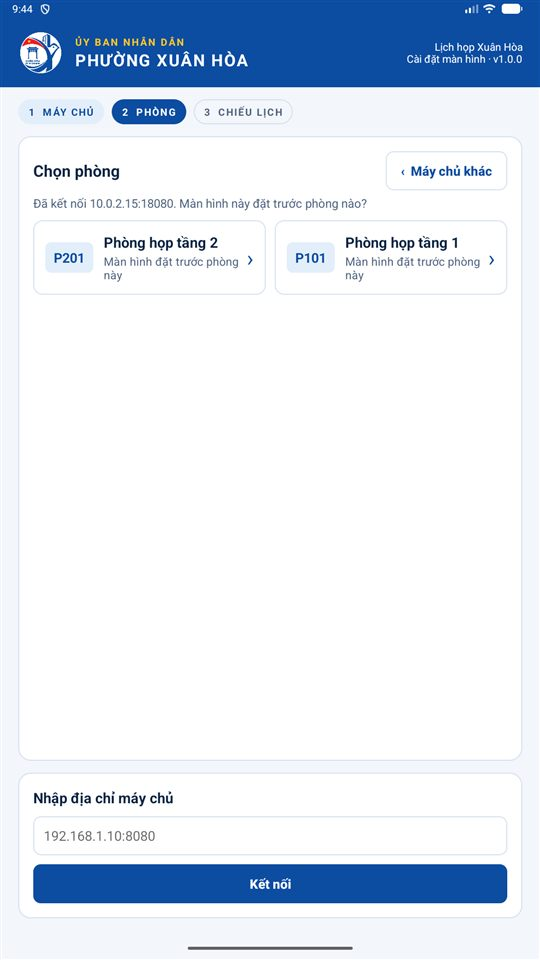
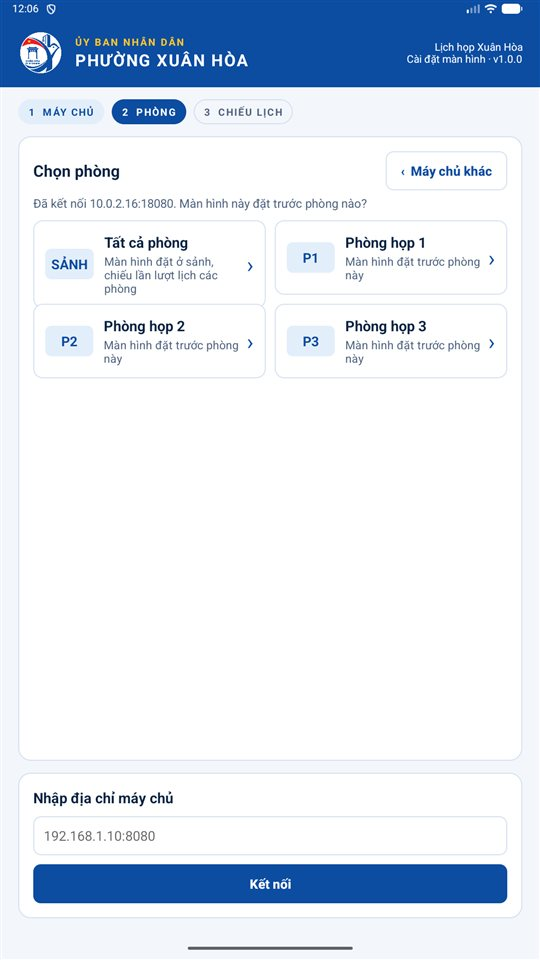
Demo: phong P101 luon o luc vua hop xong, anh app man hinh sanh va chon phong co SANH

diff --git a/demo/index.html b/demo/index.html
@@ -74,7 +74,7 @@ figcaption strong { color: var(--fg); }
       <label id="roomPick">Phòng
         <select id="room">
           <option value="P201">P201 – Phòng họp tầng 2 (mẫu Chính thức)</option>
-          <option value="P101">P101 – Phòng họp tầng 1 (mẫu Hiện đại)</option>
+          <option value="P101">P101 – Phòng họp tầng 1 (mẫu Hiện đại, vừa họp xong)</option>
           <option value="PTD">PTD – Phòng tiếp dân (mẫu Trang trọng, tên dài)</option>
         </select>
       </label>
@@ -97,14 +97,16 @@ figcaption strong { color: var(--fg); }
     </div>
     <h2>Standee dọc (1080×1920)</h2>
     <div class="shots tall">
-      <figure><img src="screens/app-chon-phong.jpg" alt="Bước chọn phòng" width="540" height="960" loading="lazy"><figcaption><strong>② Chọn phòng</strong> – thẻ lớn, chọn bằng tay hoặc remote.</figcaption></figure>
+      <figure><img src="screens/app-chon-phong.jpg" alt="Bước chọn phòng" width="540" height="960" loading="lazy"><figcaption><strong>② Chọn phòng</strong> – thẻ lớn, chọn bằng tay hoặc remote; “Tất cả phòng” cho màn hình đặt ở sảnh.</figcaption></figure>
+      <figure><img src="screens/app-sanh.jpg" alt="Màn hình sảnh chiếu lần lượt lịch các phòng" width="540" height="960" loading="lazy"><figcaption><strong>Màn hình sảnh</strong> – chiếu lần lượt từng phòng còn lịch hôm nay.</figcaption></figure>
       <figure><img src="screens/app-man-cho.jpg" alt="Màn chờ có logo phường" width="540" height="960" loading="lazy"><figcaption><strong>Màn chờ</strong> – hiện trong lúc tải lịch.</figcaption></figure>
       <figure><img src="screens/app-chieu-doc.jpg" alt="Màn hình chiếu lịch họp dọc" width="540" height="960" loading="lazy"><figcaption><strong>Chiếu lịch</strong> – bố cục dọc tự đổi theo màn hình.</figcaption></figure>
     </div>
   </section>
 
   <ul class="notes">
-    <li>Màn hình ngang/dọc là đúng trang màn hình chạy trên standee (app Android hoặc Fully Kiosk); trang quản trị là đúng trang mở ở <code>http://&lt;IP máy chủ&gt;:8081/</code>, gồm 5 tab: Lịch họp, Nhập Excel, Phòng &amp; màn hình, Giao diện, Hệ thống.</li>
+    <li>Màn hình ngang/dọc là đúng trang màn hình chạy trên standee (app Android hoặc Fully Kiosk); trang quản trị là đúng trang mở ở <code>http://&lt;IP máy chủ&gt;:&lt;cổng quản trị&gt;/</code>, gồm 5 tab: Lịch họp, Nhập Excel, Phòng &amp; màn hình, Giao diện, Hệ thống.</li>
+    <li>Phòng P101 luôn ở lúc vừa họp xong: thẻ lớn xoay giữa “ĐÃ KẾT THÚC” và cuộc họp tiếp theo mỗi 10 giây. Màn hình sảnh chiếu lần lượt các phòng còn lịch hôm nay.</li>
     <li>Trạng thái “đang chạy / mất kết nối” ở tab Phòng &amp; màn hình trong bản mẫu là dữ liệu giả.</li>
     <li>Bản mẫu không đọc được file Excel và không tải file về; trên máy chủ thật các nút đó hoạt động bình thường.</li>
     <li>Dữ liệu mẫu chỉ lưu trong trình duyệt của bạn và tự tạo lại mỗi ngày theo giờ hiện tại.</li>
@@ -139,7 +141,7 @@ figcaption strong { color: var(--fg); }
   room.addEventListener('change', function () { show(view, true); });
   document.getElementById('reload').addEventListener('click', function () { show(view, true); });
   document.getElementById('reset').addEventListener('click', function () {
-    try { localStorage.removeItem('ledConference.demo.v2'); } catch (e) { /* in-memory data resets on reload */ }
+    try { localStorage.removeItem('ledConference.demo.v3'); } catch (e) { /* in-memory data resets on reload */ }
     show(view, true);
   });
 

diff --git a/demo/mock.js b/demo/mock.js
@@ -5,7 +5,7 @@
 (function () {
   'use strict';
 
-  var KEY = 'ledConference.demo.v2'; // bumped when the sample data shape changes
+  var KEY = 'ledConference.demo.v3'; // bumped when the sample data shape changes
   var DEFAULT_DISPLAY = {
     theme: 'official', orientation: 'auto', effect: 'fadeUp', clock: true, footer: true,
     reduceMotion: false, hideCursor: true, footerNote: '', emptyDay: 'nextMeeting', skyline: 'normal',
@@ -64,7 +64,10 @@
     add(today, s0 + 150, s0 + 210, 'Họp triển khai kế hoạch chuyển đổi số', 'Phó Chủ tịch UBND phường', 'Phòng họp số 2',
       { source: 'manual', importId: null, contact: 'Đ/c Minh – phòng Văn hóa – Xã hội', showContact: true });
     add(today, s0 + 240, s0 + 300, 'Họp chuẩn bị hội nghị cuối năm', 'Chánh Văn phòng', 'Phòng họp tầng 2', { status: 'postponed' });
-    add(today, s0 + 60, s0 + 120, 'Rà soát hồ sơ đất đai tồn đọng', 'Trưởng phòng Kinh tế', 'PH tầng 1', { endEstimated: true });
+    // P101 always shows the minutes after a meeting: one ended a minute ago, the next starts soon (see relative()).
+    add(today, 0, 0, 'Rà soát hồ sơ đất đai tồn đọng', 'Trưởng phòng Kinh tế', 'PH tầng 1', { rel: [-61, -1] });
+    add(today, 0, 0, 'Họp giải quyết đơn thư kiến nghị của công dân', 'Phó Chủ tịch UBND phường', 'PH tầng 1',
+      { rel: [25, 85], note: 'Mời đại diện khu phố 3 cùng dự', contact: 'Đ/c Hùng – Thanh tra phường', showContact: true });
     add(today, s0, s0 + 120,
       'Hội nghị sơ kết công tác 9 tháng đầu năm và triển khai phương hướng, nhiệm vụ trọng tâm 3 tháng cuối năm của Ủy ban nhân dân phường Xuân Hòa',
       'Chủ tịch Ủy ban nhân dân phường', 'Phòng tiếp công dân',
@@ -107,7 +110,15 @@
     var st = memory;
     try { st = JSON.parse(localStorage.getItem(KEY)) || st; } catch (e) { /* storage blocked: keep in memory */ }
     if (!st || st.seededFor !== iso(new Date())) { st = seed(); save(st); }
+    relative(st);
     return st;
+  }
+  // Meetings seeded with `rel` keep their times relative to now, so the "ĐÃ KẾT THÚC" card shows whenever the demo is opened.
+  function relative(st) {
+    var now = nowMinutes();
+    st.meetings.forEach(function (m) {
+      if (m.rel) { m.date = iso(new Date()); m.start = hm(now + m.rel[0]); m.end = hm(now + m.rel[1]); }
+    });
   }
   function save(st) {
     memory = st;
@@ -291,6 +302,7 @@
         if (Object.keys(c.errors).length) return invalid(c.errors);
         var old = method === 'PUT' && st.meetings.find(function (x) { return x.id === parts[1]; });
         if (method === 'PUT' && !old) return problem(404, 'Không tìm thấy cuộc họp', parts[1]);
+        if (old) delete old.rel; // edited by hand: keep the times typed in
         m = Object.assign({}, old || { id: id('m_'), importId: null }, {
           date: b.date, start: b.start, end: b.end, endEstimated: false, title: b.title.trim(), chair: (b.chair || '').trim(),
           participants: (b.participants || '').trim(), note: (b.note || '').trim(), showNote: b.showNote !== false, contact: (b.contact || '').trim(), showContact: !!b.showContact, place: c.place, status: b.status || 'normal',
